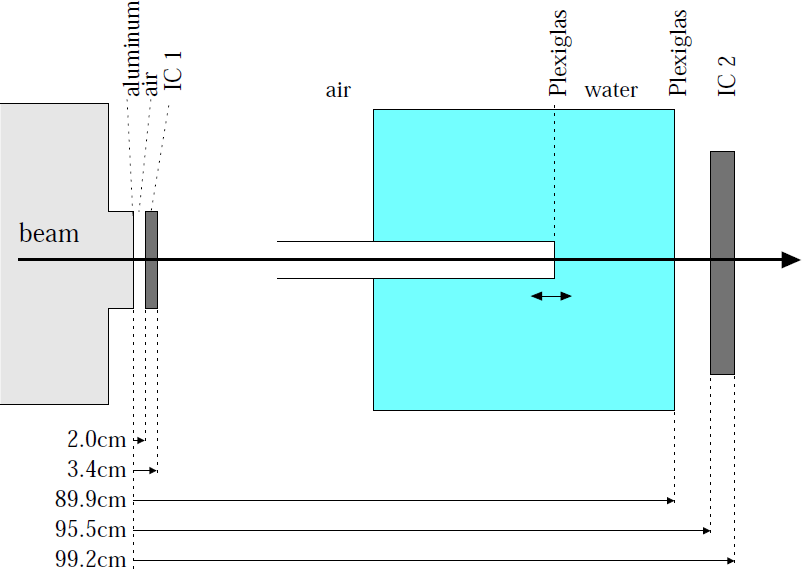
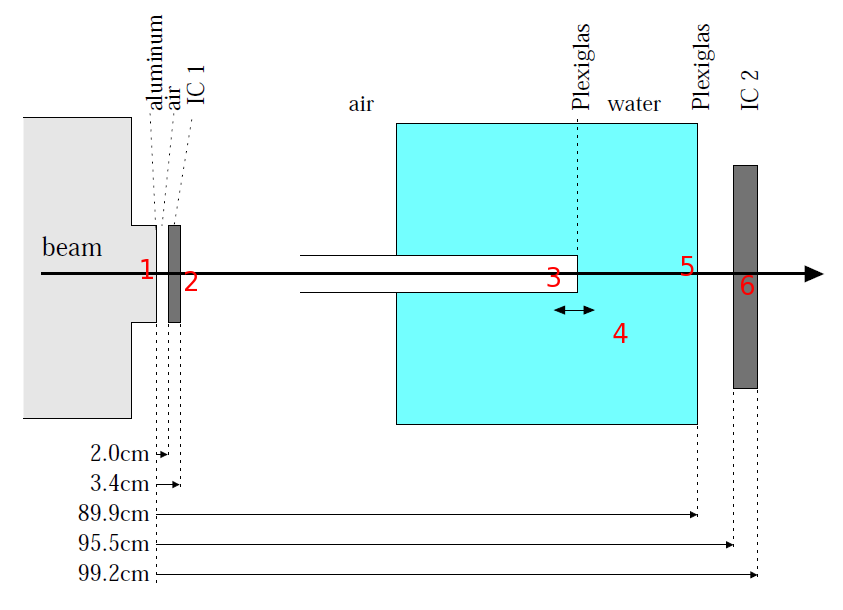
added table to thesis

diff --git a/doc/thesis/bthesis.tex b/doc/thesis/bthesis.tex
@@ -376,16 +376,31 @@ Reference data for the measurements involved in this paper have been acquired fr
 
 \begin{figure}[ht] 
 \begin{center}
-\includegraphics[width=0.9\textwidth]{images/haettnersetup.png}[h]  
+\includegraphics[width=0.9\textwidth]{images/haetnnersetup2.png}[h]  
 \caption{\label{fig:haettnersetup} E.Haettner's experimental setup. The beam arrives at the experimental setup after traveling 10m from the last focuing magnets, thus it may be considered paralell at the time of entering the first detector.}
  \end{center}
  \end{figure}
 \begin{figure}[ht] 
 \begin{center}
-\includegraphics[width=0.9\textwidth]{images/haetnnersetup2.png}[h]  
+\includegraphics[width=0.9\textwidth]{images/haettnersetup.png}[h]  
 \caption{\label{fig:haettnersetup2} E.Haettner's experimental setup. At the beam source the beam is assumed to be paralell and have an symmetric FWHM of 4mm. The beam first passes two detectors, then a water phantom and its cotnainer on both sides before reaching the last detector.}
  \end{center}
  \end{figure}
+
+ \begin{table}[h]
+\begin{tabular}{lllll} %fixme:
+ & & & \textbf{200MeV} & \textbf{400 MeV} \\
+1&Beam source window &\textbf{Aluminium}&0.1mm& 0.1mm\\
+2&Ionization Chamber 1 &\textbf{Air-equivalent}&1.4cm& 1.4cm\\
+3&Adjustable tube window &\textbf{Plexiglas}&2mm&2mm\\
+4&Phantom &\textbf{Water}&0-30cm& 0-30cm\\
+5&Container back-window &\textbf{Plexiglas}&2mm&2mm\\
+6&Ionization chamber 2&\textbf{Air-equivalent}&3.7cm& 3.7cm\\
+\end{tabular} 
+\caption{\label{fig:SimSetup} The 1-d thicknesses of materials in the beam'a path. This presentation ignores effects induced by the true 3d-structure.}
+\end{table}
+
+
 \begin{figure}[ht] 
 \begin{center}
 \includegraphics[width=0.9\textwidth]{images/SimSetup.png}[h]  
@@ -405,19 +420,24 @@ Reference data for the measurements involved in this paper have been acquired fr
 %\end{tabular} 
 %\caption{\label{fig:SimSetup} The 1-d thicknesses of materials in the beams path, ignoring effects induced by the true 3d-structure.}
 %\end{table}
-\begin{center}
- \begin{table}[h]
-\begin{tabular}{llll} %fixme:
-& & \textbf{200MeV} & \textbf{400 MeV} \\
-Beam source window &\textbf{Aluminium}&0.1mm& 0.1mm\\
-Lab and IC's &\textbf{Air}&72cm& 91cm\\
-Water-container &\textbf{Plexiglas}&4mm& 4mm\\
-Phantom &\textbf{Water}&26.89cm& 8.04cm\\
-\end{tabular} 
-\caption{\label{fig:SimSetup} The 1-d thicknesses of materials in the two beams' paths at the Bragg-peak. This presentation ignores effects induced by the true 3d-structure.}
-\end{table}
-\end{center}
 
+
+%\begin{center}
+% \begin{table}[h]
+%\begin{tabular}{llll} %fixme:
+%& & \textbf{200MeV} & \textbf{400 MeV} \\
+%Beam source window &\textbf{Aluminium}&0.1mm& 0.1mm\\
+%Lab and IC's &\textbf{Air}&72cm& 91cm\\
+%Water-container &\textbf{Plexiglas}&4mm& 4mm\\
+%Phantom &\textbf{Water}&26.89cm& 8.04cm\\
+%Beam source window &\textbf{Aluminium}&0.1mm& 0.1mm\\
+%Lab and IC's &\textbf{Air}&72cm& 91cm\\
+%Water-container &\textbf{Plexiglas}&4mm& 4mm\\
+%Phantom &\textbf{Water}&26.89cm& 8.04cm\\
+%\end{tabular} 
+%\caption{\label{fig:SimSetup} The 1-d thicknesses of materials in the two beams' paths at the Bragg-peak. This presentation ignores %effects induced by the true 3d-structure.}
+%\end{table}
+%\end{center}
 
 
 
